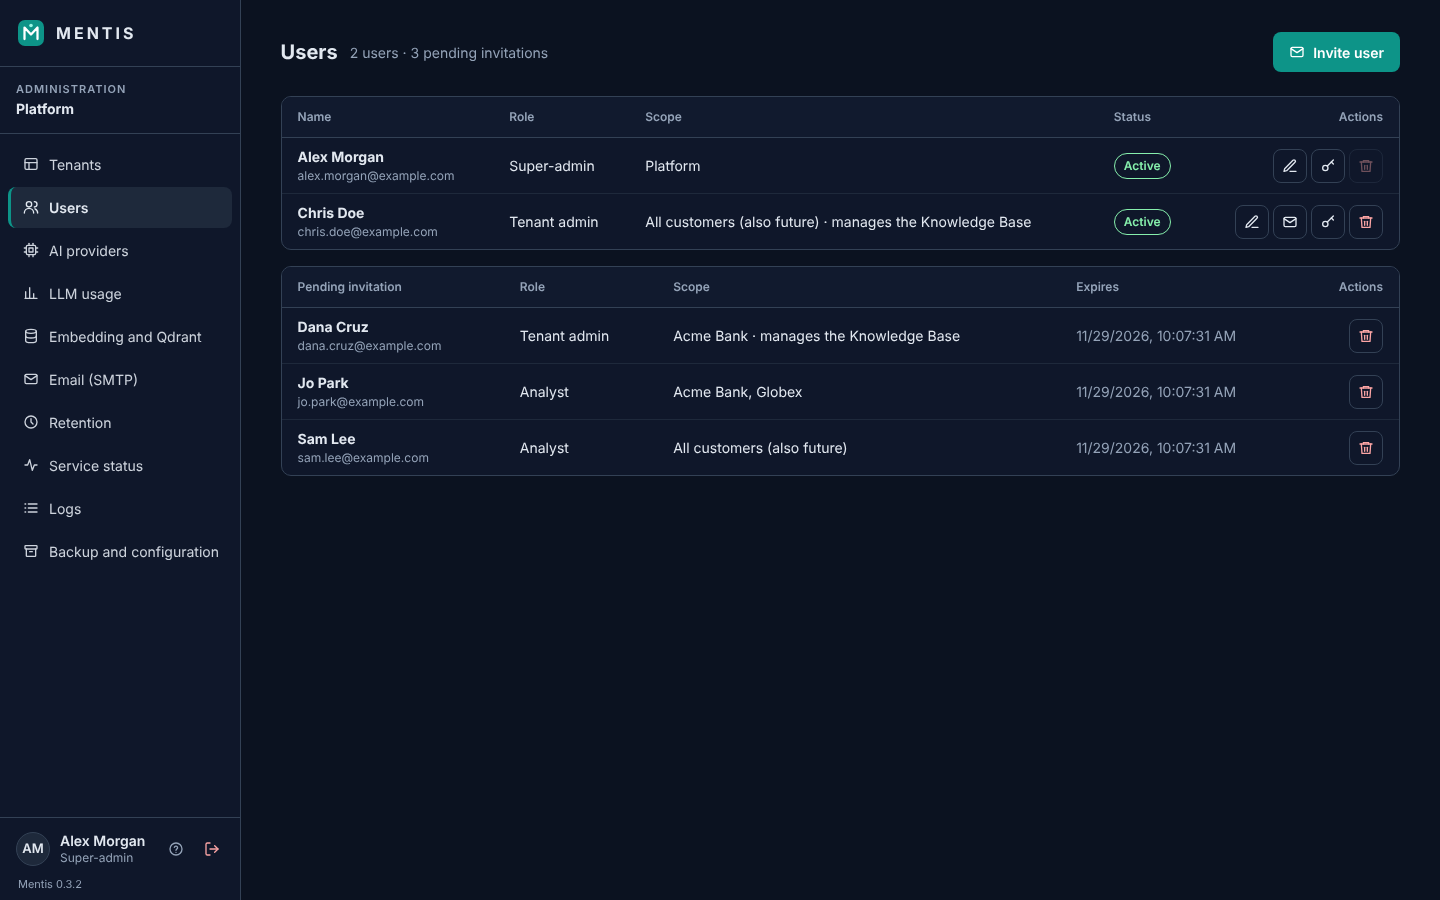
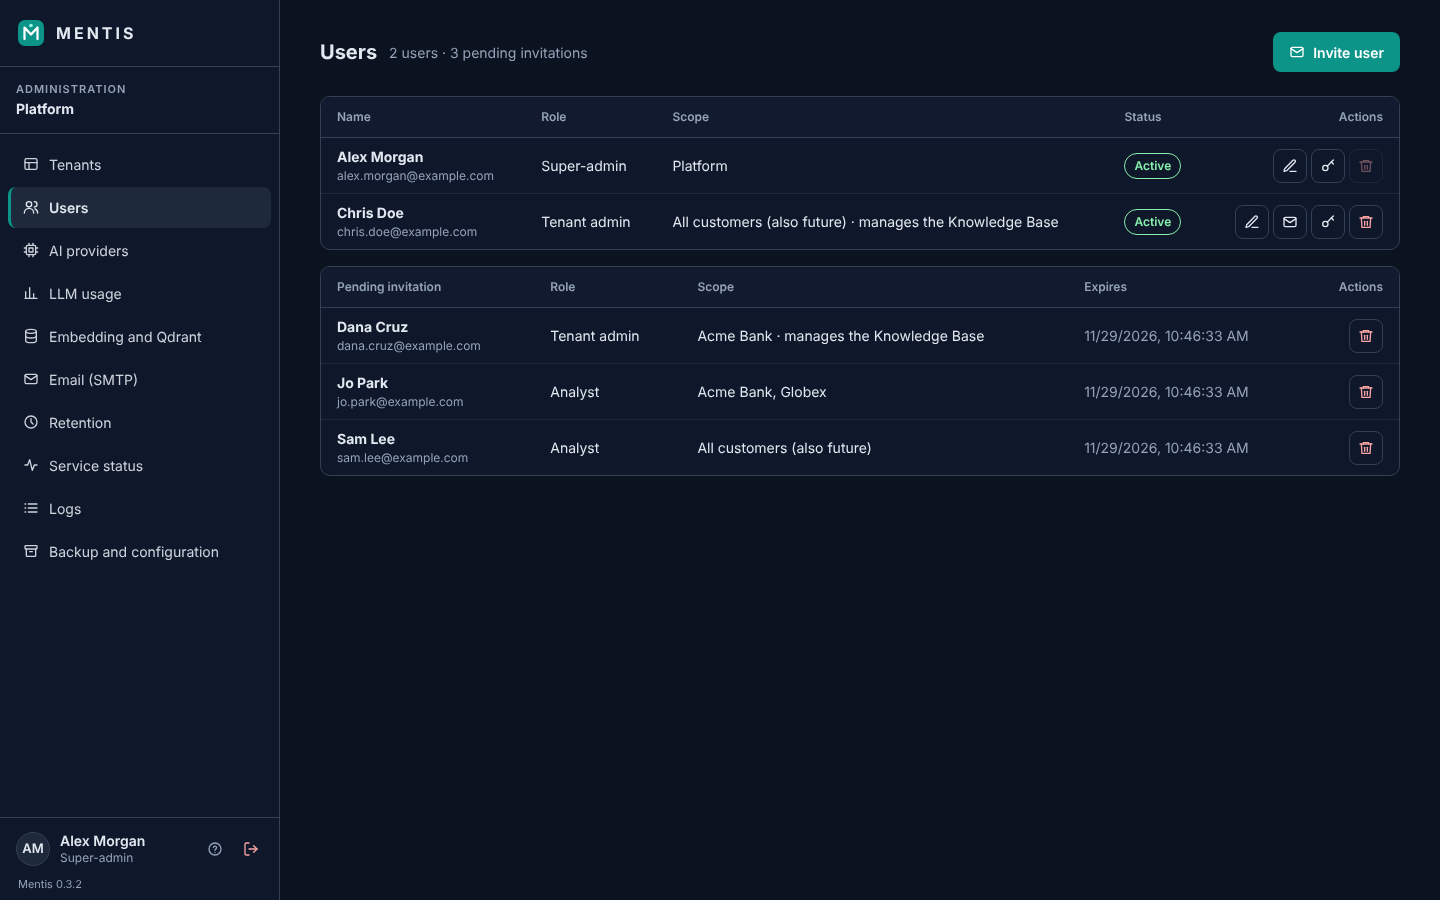
Center page content and widen the side menu
Claude-Session: https://claude.ai/code/session_01XxMwfZow8Asn8GhBh79ebo

diff --git a/frontend/src/styles/base.css b/frontend/src/styles/base.css
@@ -81,7 +81,7 @@ tr:last-child td { border-bottom: 0; }
 
 /* Shell with left menu */
 .shell { min-height: 100%; display: flex; flex-wrap: wrap; }
-.sidebar { flex: 1 1 240px; max-width: 100%; background: var(--surface); border-right: 1px solid var(--border); display: flex; flex-direction: column; }
+.sidebar { flex: 0 0 var(--sidebar-w); width: var(--sidebar-w); max-width: 100%; background: var(--surface); border-right: 1px solid var(--border); display: flex; flex-direction: column; }
 .sidebar-block { padding: 14px 16px; border-bottom: 1px solid var(--border); }
 .brand { display: flex; align-items: center; gap: 10px; padding: 18px 16px; border-bottom: 1px solid var(--border); }
 .brand-name { font-weight: 700; letter-spacing: 3px; font-size: 16px; }
@@ -97,12 +97,13 @@ tr:last-child td { border-bottom: 0; }
 .user-link { display: flex; align-items: center; gap: 10px; padding: 14px 16px; border-top: 1px solid var(--border); color: var(--text); text-decoration: none; }
 .avatar { width: 34px; height: 34px; border-radius: 50%; background: var(--raised); border: 1px solid var(--border); display: flex; align-items: center; justify-content: center; font-weight: 600; font-size: 13px; }
 .main { flex: 999 1 640px; min-width: 0; display: flex; flex-direction: column; }
-/* Desktop pages keep a readable width (like Equalizer): content aligned left, never stretched
-   across wide monitors. The header is part of the page, not a full-width bar. */
-:root { --page-max: 1200px; --page-max-wide: 1560px; }
-.page-head { display: flex; flex-wrap: wrap; align-items: center; gap: 12px; padding: 32px 40px 8px; width: 100%; max-width: var(--page-max); }
-.page-body { padding: 16px 40px 40px; display: flex; flex-direction: column; gap: 16px; width: 100%; max-width: var(--page-max); }
+/* Desktop pages keep a readable width (like Equalizer), centered in the space next to the menu:
+   never stretched across wide monitors. The header is part of the page, not a full-width bar. */
+:root { --page-max: 1200px; --page-max-wide: 1560px; --sidebar-w: 280px; }
+.page-head { display: flex; flex-wrap: wrap; align-items: center; gap: 12px; padding: 32px 40px 8px; width: 100%; max-width: var(--page-max); margin: 0 auto; }
+.page-body { padding: 16px 40px 40px; display: flex; flex-direction: column; gap: 16px; width: 100%; max-width: var(--page-max); margin: 0 auto; }
 .page-head.wide, .page-body.wide { max-width: var(--page-max-wide); } /* data-heavy tables (Logs) */
+.page-head.narrow, .page-body.narrow { max-width: 860px; } /* forms and settings */
 
 /* Centered pages (login, setup, invite, account) */
 .center-page { min-height: 100%; display: flex; flex-direction: column; align-items: center; justify-content: center; padding: 32px 16px; gap: 20px; }

diff --git a/frontend/src/pages/platform/SmtpSettings.tsx b/frontend/src/pages/platform/SmtpSettings.tsx
@@ -13,7 +13,7 @@ export function SmtpSettings() {
   const [busy, setBusy] = useState(false);
 
   useEffect(() => { api<Smtp>("/platform/smtp").then(setCfg).catch((e) => setMsg({ ok: false, text: errorText(e) })); }, []);
-  if (!cfg) return <PageHead title="Email (SMTP)" />;
+  if (!cfg) return <PageHead title="Email (SMTP)" narrow />;
 
   const set = <K extends keyof Smtp>(k: K, v: Smtp[K]) => setCfg({ ...cfg, [k]: v });
 
@@ -53,10 +53,10 @@ export function SmtpSettings() {
 
   return (
     <>
-      <PageHead title="Email (SMTP)">
+      <PageHead title="Email (SMTP)" narrow>
         {cfg.configured ? <span className="pill ok">Configured</span> : <span className="pill warn">Not configured</span>}
       </PageHead>
-      <div className="page-body" style={{ maxWidth: 760 }}>
+      <div className="page-body narrow">
         <p className="muted" style={{ margin: 0 }}>Used to send invitations. Without it, invitation links are shown to the admin to share manually.</p>
         <form className="card" onSubmit={save}>
           <div className="card-head"><h2>Server</h2></div>

diff --git a/frontend/src/pages/platform/Retention.tsx b/frontend/src/pages/platform/Retention.tsx
@@ -37,7 +37,7 @@ export function RetentionSettings() {
   const [confirm, setConfirm] = useState(false);
 
   useEffect(() => { api<Retention>("/platform/retention").then(setCfg).catch((e) => setMsg({ ok: false, text: errorText(e) })); }, []);
-  if (!cfg) return <PageHead title="Retention" />;
+  if (!cfg) return <PageHead title="Retention" narrow />;
 
   async function save() {
     if (!cfg) return;
@@ -62,8 +62,8 @@ export function RetentionSettings() {
 
   return (
     <>
-      <PageHead title="Retention" />
-      <div className="page-body" style={{ maxWidth: 760 }}>
+      <PageHead title="Retention" narrow />
+      <div className="page-body narrow">
         <p className="muted" style={{ margin: 0 }}>How long Mentis keeps chats and log events. Older data is deleted once a day by the worker. Documents are not affected: they stay until an admin deletes them.</p>
         <div className="card">
           <div className="card-body stack">

diff --git a/frontend/src/pages/platform/EmbeddingSettings.tsx b/frontend/src/pages/platform/EmbeddingSettings.tsx
@@ -86,15 +86,15 @@ export function EmbeddingSettings() {
     }
   }
 
-  if (!state) return <PageHead title="Embedding and Qdrant" />;
+  if (!state) return <PageHead title="Embedding and Qdrant" narrow />;
   const r = state.reindex;
 
   return (
     <>
-      <PageHead title="Embedding and Qdrant">
+      <PageHead title="Embedding and Qdrant" narrow>
         {state.reindex_needed ? <span className="pill warn">Reindex needed</span> : <span className="pill ok">Index up to date</span>}
       </PageHead>
-      <div className="page-body" style={{ maxWidth: 820 }}>
+      <div className="page-body narrow">
         <p className="muted" style={{ margin: 0 }}>
           Every document chunk is turned into a vector by the embedding model and stored in Qdrant, one collection per customer.
           Any OpenAI-compatible embeddings endpoint works: the local TEI container (default), Ollama, vLLM or a cloud provider.

diff --git a/frontend/src/pages/tenant/TenantLlm.tsx b/frontend/src/pages/tenant/TenantLlm.tsx
@@ -96,8 +96,8 @@ export function TenantLlm() {
   const { current } = useCurrentTenant();
   return (
     <>
-      <PageHead title="LLM" />
-      <div className="page-body" style={{ maxWidth: 760 }}>
+      <PageHead title="LLM" narrow />
+      <div className="page-body narrow">
         <p className="muted" style={{ margin: 0 }}>Which AI model writes the answers about this customer. Analysts see the model's name under each answer.</p>
         {current?.is_general && <div className="notice">The General Knowledge Base is shared by all customers. With a customer, answers use that customer's LLM; questions on the General Knowledge Base alone use the platform default.</div>}
         {current && !current.is_general && <div className="card"><div className="card-body"><TenantLlmForm key={current.id} tenantId={current.id} /></div></div>}

diff --git a/frontend/src/layouts/AdminShell.tsx b/frontend/src/layouts/AdminShell.tsx
@@ -59,9 +59,10 @@ export function MobileBar({ title, onMenu, right }: { title: string; onMenu: () 
   );
 }
 
-export function PageHead({ title, children, wide = false }: { title: string; children?: ReactNode; wide?: boolean }) {
+/** Page title. `narrow` for forms and settings, `wide` for data-heavy tables: use the same on the page body. */
+export function PageHead({ title, children, wide = false, narrow = false }: { title: string; children?: ReactNode; wide?: boolean; narrow?: boolean }) {
   return (
-    <header className={`page-head${wide ? " wide" : ""}`}>
+    <header className={`page-head${wide ? " wide" : ""}${narrow ? " narrow" : ""}`}>
       <h1>{title}</h1>
       {children}
     </header>

diff --git a/frontend/src/pages/tenant/TenantSettings.tsx b/frontend/src/pages/tenant/TenantSettings.tsx
@@ -33,8 +33,8 @@ export function TenantSettings() {
 
   return (
     <>
-      <PageHead title="Settings" />
-      <div className="page-body" style={{ maxWidth: 760 }}>
+      <PageHead title="Settings" narrow />
+      <div className="page-body narrow">
         {error && <div className="error">{error}</div>}
         {current?.is_general && <div className="notice">The General Knowledge Base is shared by all customers: its documents always need approval, and the other settings apply to customers.</div>}
         {tenant && !current?.is_general && (

diff --git a/frontend/src/pages/platform/Configuration.tsx b/frontend/src/pages/platform/Configuration.tsx
@@ -41,8 +41,8 @@ export function Configuration() {
 
   return (
     <>
-      <PageHead title="Backup and configuration" />
-      <div className="page-body" style={{ maxWidth: 860 }}>
+      <PageHead title="Backup and configuration" narrow />
+      <div className="page-body narrow">
         <div className="card">
           <div className="card-head"><h2>Configuration</h2></div>
           <div className="card-body stack">

diff --git a/frontend/src/pages/chat/chat.css b/frontend/src/pages/chat/chat.css
@@ -1,6 +1,6 @@
 /* Chat page */
 .chat-shell { height: 100%; flex-wrap: nowrap; }
-.chat-sidebar { flex: 0 0 280px; height: 100%; overflow: hidden; }
+.chat-sidebar { flex: 0 0 var(--sidebar-w); height: 100%; overflow: hidden; }
 .chat-history { overflow-y: auto; min-height: 0; }
 .chat-item { position: relative; }
 .nav .chat-item a { flex-direction: column; align-items: flex-start; gap: 0; padding-right: 64px; }

diff --git a/frontend/src/pages/Account.tsx b/frontend/src/pages/Account.tsx
@@ -60,8 +60,8 @@ export function Account() {
 
   return (
     <PersonalShell>
-      <PageHead title="Account" />
-      <div className="page-body" style={{ maxWidth: 760 }}>
+      <PageHead title="Account" narrow />
+      <div className="page-body narrow">
         {error && <div className="error">{error}</div>}
 
         <section className="card">

diff --git a/CHANGELOG.md b/CHANGELOG.md
@@ -6,6 +6,9 @@ Format: [Keep a Changelog](https://keepachangelog.com/en/1.1.0/). Versions follo
 
 ## [Unreleased]
 
+### Changed
+- Desktop layout: pages are centered next to the menu (readable width: 1200 px, 860 px for forms and settings, 1560 px for Logs), and the side menu is wider (280 px).
+
 ## [0.3.2] - 2026-11-26
 
 Security release: authorization matrix over every API route, penetration test (report in `docs/security/pentest-v0.3.2.md`), infrastructure hardening, frontend review.
